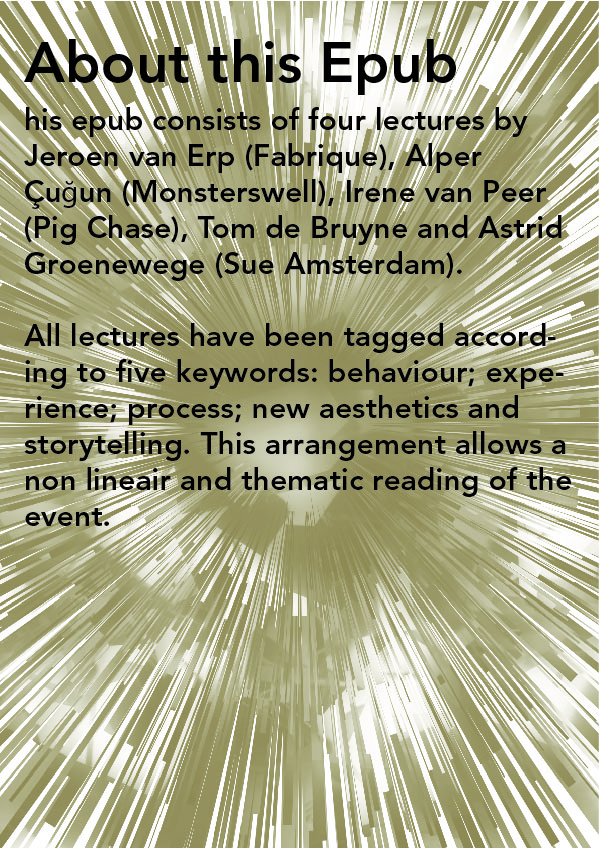
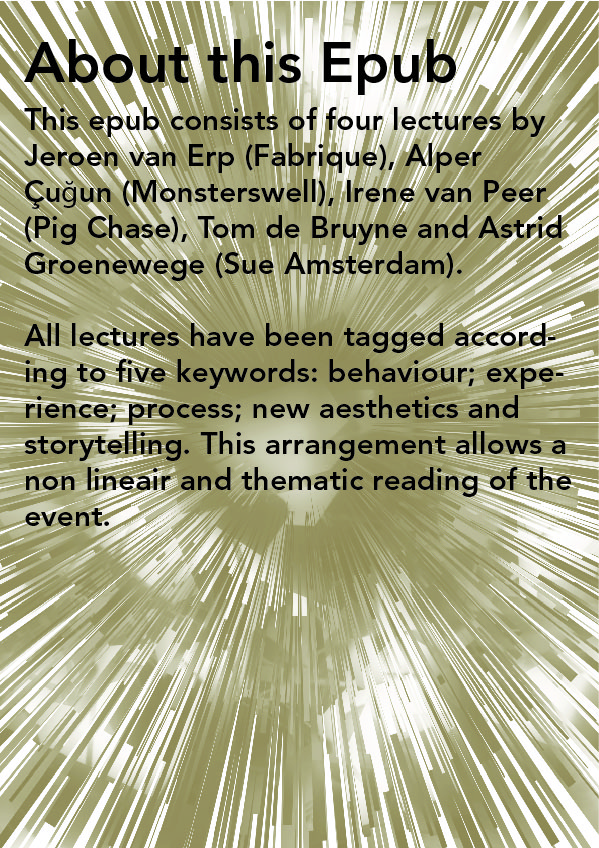
spaces in bios

Changed region(s): [[0.0301, 0.1226, 0.9015, 0.1533]]

diff --git a/OEBPS/presentations.html b/OEBPS/presentations.html
@@ -21,7 +21,7 @@
 			<img src="./images/presentationsheader.jpg" alt="titlepage" />
 
 		</div>
-
+		<div class='breadcrumbs'></div>
 <h3>Introduction by Jasper Schelling</h3>
        <!-- EIND BLOK -->
     <video id="video0"  controls='controls' poster="images/stills/pres-jasper.jpg">
@@ -85,7 +85,7 @@ As Deanna stated, these short lectures are on the subject of Dynamic Design, the
 
 			<p>First, lets start with an anecdote.</p>
 <div class='inlineimg' ><img src='images/allslides/slidessue/sue_howtriggerbehaviour_Page_04.jpg'/></div>
-			<p>"Keep the Change", a program which is designed on top of Bank of America's debit card. What this service does is, whenever you pay for a coffee, say, it rounds up the amount paid to a decimal, so if the coffee costs 3.20 it rounds the figure up to 4.00, with the additional 0.80 cents being transferred into a savings account in your name. Its quite shocking to see how quickly money can accumulate by saving in this way. So, it takes a basic human desire as a point of departure ... people all want to save, but they don't know how. Designers or banks can communicate as much they like but it doesn't make it any easier for savers. This particular design intervention got more then 100,000 people to switch to Bank of America, its designed for behavioural change, it triggers people to save without having to do anything.</p>
+			<p>Keep the Change, a program which is designed on top of Bank of America's debit card. What this service does is, whenever you pay for a coffee, say, it rounds up the amount paid to a decimal, so if the coffee costs 3.20 it rounds the figure up to 4.00, with the additional 0.80 cents being transferred into a savings account in your name. Its quite shocking to see how quickly money can accumulate by saving in this way. So, it takes a basic human desire as a point of departure ... people all want to save, but they don't know how. Designers or banks can communicate as much they like but it doesn't make it any easier for savers. This particular design intervention got more then 100,000 people to switch to Bank of America, its designed for behavioural change, it triggers people to save without having to do anything.</p>
 
 			<p>The first conclusion we can make from this is that if you compare advertising with the science of behavioural economics, you see that advertising, as an industry, clings to a naive conviction that people will change their behaviour if they are informed, so all the advertiser need do is communicate with them.</p>
 
@@ -111,15 +111,15 @@ As Deanna stated, these short lectures are on the subject of Dynamic Design, the
 <div class='inlineimg' ><img src='images/allslides/slidessue/sue_howtriggerbehaviour_Page_16.jpg'/></div>
 			<p>So, we have behavioural economics, game design, and the third area, or idea, we think you should consider, is persuasion design. A book by <a href='http://en.wikipedia.org/wiki/Robert_Cialdini'>Robert B. Cialdini</a> "50 Scientifically Proven Ways to Be Persuasive", an easy read but something that offers a lot in terms of areas, or methodologies, that design and advertising has overlooked.</p>
 
-			<p>[Astrid Groenewege]
+			<p>
 
-				We always say that advertising is very much about seduction, if you compare it to a relationship, if somebody is hitting on you constantly you loose interest, but if somebody has some mysterious quality, then you want to get at that mysterious quality and so want engage with them. This is how you should think about brands, don't think about the seduction game, the advertising game, but how to make the brand remarkable, and relevant for people.</p>
+				We always say that advertising is very much about seduction, if you compare it to a relationship, if somebody is hitting on you constantly you loose interest, but if somebody has some mysterious quality, then you want to get at that mysterious quality and so want engage with them. This is how you should think about brands, don't think about the seduction game, the advertising game, but how to make the brand remarkable, and relevant for people.[Astrid Groenewege]</p>
 
-			<p>[Tom de Bruyne]
+			<p>
 
 				To all you advertising people, don't consider yourselves to be advertising creatives, your creatives that take human understanding as a point of departure and design for behavioural change, you design solutions around understanding human behaviour.
 
-				That's is! ... thank you.</p>
+				That's is! ... thank you.[Tom de Bruyne]</p>
 
 
 		</div>

diff --git a/OEBPS/thema4.html b/OEBPS/thema4.html
@@ -42,7 +42,7 @@ According to Tom de Bruyne (Sue Amsterdam): What we want to suggest is that "inv
 				</div>
 			</video>
 			<p class='bioinfo'>
-				<a epub:type="noteref" href="#note-irene" >Speaker:  Irene van Peer </a> van <a epub:type="noteref" href='#pigs1'>Pig Chase</a>
+				<a epub:type="noteref" href="#note-irene" >Speaker:  Irene&#160;van&#160;Peer </a> van <a epub:type="noteref" href='#pigs1'>Pig Chase</a>
 				<span class='dur'>3:15</span>
 			</p>
 			<div class='buttons'>
@@ -94,7 +94,7 @@ According to Tom de Bruyne (Sue Amsterdam): What we want to suggest is that "inv
 				</div>
 			</video>
 			<p class='bioinfo'>
-				<a epub:type="noteref" href="#note-tom" >Speaker:  Sue Amsterdam</a>
+				<a epub:type="noteref" href="#note-tom" >Speaker:  Sue&#160;Amsterdam</a>
 				<span class='dur'>0:34</span>
 			</p>
 
@@ -167,7 +167,7 @@ From Amazon’s description of the book: Yes!: 50 Scientifically Proven Ways to 
 				</div>
 			</video>
 			<p class='bioinfo'>
-				<a epub:type="noteref" href="#note-jeroen" >Speaker:  Jeroen van Erp</a>
+				<a epub:type="noteref" href="#note-jeroen" >Speaker:  Jeroen&#160;van&#160;Erp</a>
 				<span class='dur'>1:29</span>
 			</p>
 
@@ -210,7 +210,7 @@ From Amazon’s description of the book: Yes!: 50 Scientifically Proven Ways to 
 				</div>
 			</video>
 			<p class='bioinfo'>
-				<a epub:type="noteref" href="#note-jeroen" >Speaker:  Jeroen van Erp</a>
+				<a epub:type="noteref" href="#note-jeroen" >Speaker:  Jeroen&#160;van&#160;Erp</a>
 				<span class='dur'>1:57</span>
 			</p>
 			<div class='buttons'>
@@ -259,7 +259,7 @@ From Amazon’s description of the book: Yes!: 50 Scientifically Proven Ways to 
 				</div>
 			</video>
 			<p class='bioinfo'>
-				<a epub:type="noteref" href="#note-jeroen" >Speaker:  Jeroen van Erp</a>
+				<a epub:type="noteref" href="#note-jeroen" >Speaker:  Jeroen&#160;van&#160;Erp</a>
 				<span class='dur'>1:21</span>
 			</p>
 

diff --git a/OEBPS/thema1.html b/OEBPS/thema1.html
@@ -53,7 +53,7 @@
 			</video>
 
 			<p class='bioinfo'>
-				<a epub:type="noteref" href="#note-irene" >Speaker: Irene van Peer </a> van <a epub:type="noteref" href='#pigs1'>Pig Chase</a>
+				<a epub:type="noteref" href="#note-irene" >Speaker: Irene&#160;van&#160;Peer </a> van <a epub:type="noteref" href='#pigs1'>Pig Chase</a>
 				<span class='dur'>2:01</span>
 			</p>
 			
@@ -69,7 +69,7 @@
 			</p>
 			<div class='inlineimg' ><img src='images/losseplaatjes/PigChase1.jpg'/></div>
 			<p>
-			<a epub:type='noteref' href='#note-video'>The video </a>was our very first goal, its nice to talk about how we got there, because it may shine some light on what factors influenced the design, the design process, and the dynamics of this design process.
+			The <a epub:type='noteref' href='#note-video'>video </a>was our very first goal, its nice to talk about how we got there, because it may shine some light on what factors influenced the design, the design process, and the dynamics of this design process.
 			</p>
 			<div class='inlineimg' ><img src='images/losseplaatjes/PigChase2.jpg'/></div>
 			<p>
@@ -144,7 +144,7 @@ http://en.wikipedia.org/wiki/Mockup
 				</div>
 			</video>
 			<p class='bioinfo'>
-				<a epub:type="noteref" href="#note-tom" >Speaker: Sue Amsterdam </a>
+				<a epub:type="noteref" href="#note-tom" >Speaker: Sue&#160;Amsterdam </a>
 				<span class='dur'>2:45</span>
 			</p>
 			<div class='buttons'>
@@ -221,7 +221,7 @@ http://en.wikipedia.org/wiki/Choice_architecture
 				</div>
 			</video>
 			<p class='bioinfo'>
-				<a epub:type="noteref" href="#note-tom" >Speaker: Tom de Bruyne </a>
+				<a epub:type="noteref" href="#note-tom" >Speaker: Sue&#160;Amsterdam </a>
 				<span class='dur'>1:02</span>
 			</p>
 				

diff --git a/OEBPS/thema3.html b/OEBPS/thema3.html
@@ -35,17 +35,17 @@
 				New Aesthetics: Maps can be all kinds of things.
 			</h2>
 		</p>
-		<div class='videocont' id='fsdfa' rel='665' alt='784'>
+		<div class='videocont' id='fsdfa' rel='45' alt='371'>
 
 			<video id="video1" poster="./images/stills/dynamicdata-AC-0.45.jpg" >
-				<source src="./videos/alpercugun" type="video/mp4"/>
+				<source src="./videos/alpercugun.m4v" type="video/mp4"/>
 				<div class="errmsg">
 					<p>Your Reading System does not support (this) video.</p>
 				</div>
 			</video>
 			<p class='bioinfo'>
-				<a epub:type="noteref" href="#note-alper" >Speaker:  Alper Çuğun </a>
-				<span class='dur'>1:59</span>
+				<a epub:type="noteref" href="#note-alper" >Speaker:  Alper&#160;Çuğun </a>
+				<span class='dur'>4:10</span>
 			</p>
 				
 			<div class='buttons'>
@@ -147,7 +147,7 @@ http://searchengineland.com
 				</div>
 			</video>
 			<p class='bioinfo'>
-				<a epub:type="noteref" href="#note-tom" >Speaker: Sue Amsterdam</a>
+				<a epub:type="noteref" href="#note-tom" >Speaker: Sue&#160;Amsterdam</a>
 				<span class='dur'>0:50</span>
 			</p>
 			

diff --git a/OEBPS/epubformat.html b/OEBPS/epubformat.html
@@ -19,6 +19,7 @@
 <img src="./images/epubheader.jpg" alt="titlepage" />
       <!-- <div class='title'>About this Epub</div> -->
     </div>
+    <div class='breadcrumbs'></div>
 <div class='fullquote'>
 <p>This epub consists of four lectures by Jeroen van Erp (Fabrique), Alper Çuğun (Monsterswell), Irene van Peer (Pig Chase), Tom de Bruyne and Astrid Groenewege (Sue Amsterdam). All lectures have been tagged according to five keywords: <a href='./thema1.html'>behaviour</a>; <a href='./thema4.html'>experience</a>; <a href='./thema5.html'>process</a>; <a href='./thema3.html'>new aesthetics</a> and <a href='./thema2.html'>storytelling</a>. This arrangement allows a non lineair and thematic reading of the event.</p>
 <p>The keywords reflect the main topics  of all four lectures, representing Dynamic Design. The keywords can be used to navigate through snippets of all lectures. Each snippet offers a link to the complete lecture, including bio's and slides of the speakers.</p>

diff --git a/OEBPS/thema5.html b/OEBPS/thema5.html
@@ -40,7 +40,7 @@
 				</div>
 			</video>
 			<p class='bioinfo'>
-				<a epub:type="noteref" href="#note-alper" >Speaker:  Alper Çuğun  </a>
+				<a epub:type="noteref" href="#note-alper" >Speaker:  Alper&#160;Çuğun  </a>
 				<span class='dur'>2:51</span>
 			</p>
 
@@ -100,7 +100,7 @@ http://en.wikipedia.org/wiki/Algorithm
 
 
 
-		<div class='videocont' id='fsdfa' rel='10' alt='60'>
+		<div class='videocont' id='fsdfa' rel='464' alt='564'>
 
 			<video id="video2" poster="./images/stills/process-AC-7.54.jpg" >
 
@@ -111,8 +111,8 @@ http://en.wikipedia.org/wiki/Algorithm
 				</div>
 			</video>
 			<p class='bioinfo'>
-				<a epub:type="noteref" href="#note-alper" >Speaker:  Alper Çuğun  </a>
-				<span class='dur'>0:50</span>
+				<a epub:type="noteref" href="#note-alper" >Speaker:  Alper&#160;Çuğun  </a>
+				<span class='dur'>1:40</span>
 			</p>
 <div class='buttons'>
 				<div class='play' id='playbut3'></div>

diff --git a/OEBPS/intro.html b/OEBPS/intro.html
@@ -19,7 +19,7 @@ xmlns:epub="http://www.idpf.org/2007/ops"
 <img src="./images/introheader.jpg" alt="titlepage" />
    <!--    <div class='title'>Introduction</div> -->
     </div>
-
+<div class='breadcrumbs'></div>
       <h3>Crosslab events</h3>
 <div class='fullquote'><p>This epub is accompanying the Dynamic Design event at the Unie Rotterdam, organised by Crosslab; Willem de Kooning Academy and Hogeschool Rotterdam. Since november 2010, CrossLab has been organizing a series of events about 'state of the art' developments in media technology and design, discussed by professionals within the field of art and design. Previous events include: Transmedia Stories, Digital Craft and Dutch Digital Design.</p>
 

diff --git a/OEBPS/thema2.html b/OEBPS/thema2.html
@@ -41,7 +41,7 @@
 				</div>
 			</video>
 			<p class='bioinfo'>
-				<a epub:type="noteref" href="#note-jeroen" >Speaker: Jeroen van Erp</a>
+				<a epub:type="noteref" href="#note-jeroen" >Speaker: Jeroen&#160;van&#160;Erp</a>
 				<span class='dur'>1:59</span>
 			</p>
 
@@ -92,7 +92,7 @@
 				</div>
 			</video>
 			<p class='bioinfo'>
-				<a epub:type="noteref" href="#note-tom" >Speaker: Sue Amsterdam </a>
+				<a epub:type="noteref" href="#note-tom" >Speaker: Sue&#160;Amsterdam </a>
 				<span class='dur'>2:45</span>
 			</p>
 			<div class='buttons'>

diff --git a/OEBPS/style.css b/OEBPS/style.css
@@ -93,9 +93,11 @@ a {
 	background: url('images/Icon_Internal_Link.png') center right no-repeat;
 	padding-right: 13px;
 }
-a[href^="#"] {
+a[href^="#"]{
 	background: url('images/Icon_InfoPopup_Link.png') center right no-repeat;
 	padding-right: 13px;
+}
+a.nextsnip[href^="#"] {-webkit-text-fill-color: rgb(170,161,99);display:block;background:url('images/arrow_right.svg');background-repeat: no-repeat;background-size: 20px 20px;padding-left:10%;height:50px;
 }
 a[href^="http://"] {
 	background: url('images/Icon_External_Link.png') center right no-repeat;

diff --git a/OEBPS/colofon.html b/OEBPS/colofon.html
@@ -59,7 +59,6 @@ Aldje van Meer<br />
 Deanna Herst</p>
 
 <p><b>Video</b><br />
-Brigit Lichtenegger<br />
 Zhang Yan</p>
 
 <p><b>Made possible by:</b><br />
